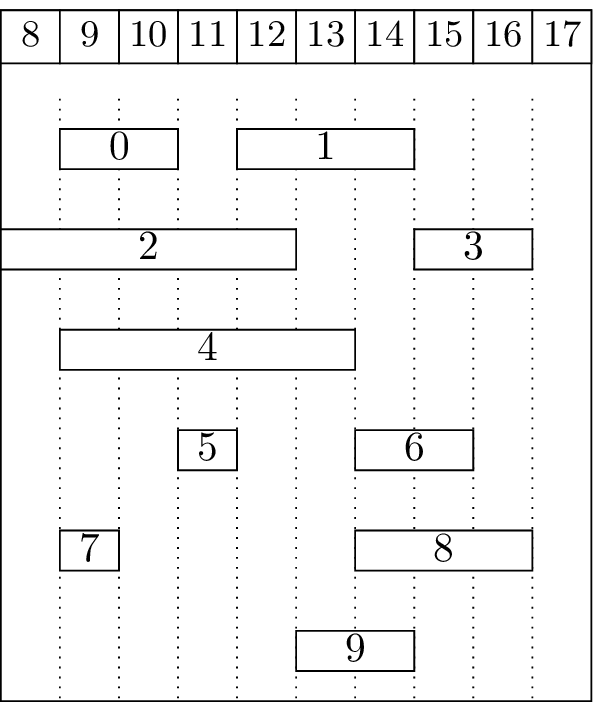
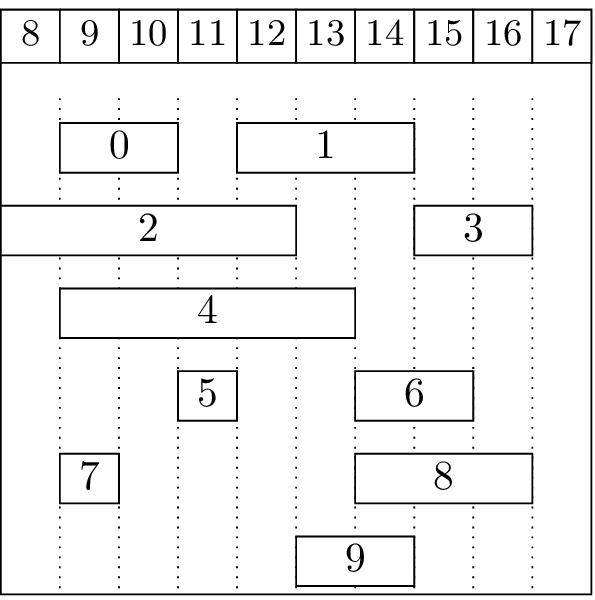
Update size

diff --git a/graph/coloring/interval/interval.tex b/graph/coloring/interval/interval.tex
@@ -5,7 +5,7 @@
 \begin{document}
 
 \begin{tikzpicture}[]
-    \begin{ganttchart}[inline, vgrid=true, x unit=.5cm, y unit chart=.85cm, y unit title=.75cm,]{8}{17}
+    \begin{ganttchart}[inline, vgrid=true, y unit chart=.7cm, y unit title=.75cm, bar height=.6]{8}{17}
         \gantttitlelist{8,...,17}{1} \\
         \ganttbar{0}{9}{10} \ganttbar{1}{12}{14} \\
         \ganttbar{2}{8}{12} \ganttbar{3}{15}{16} \\
